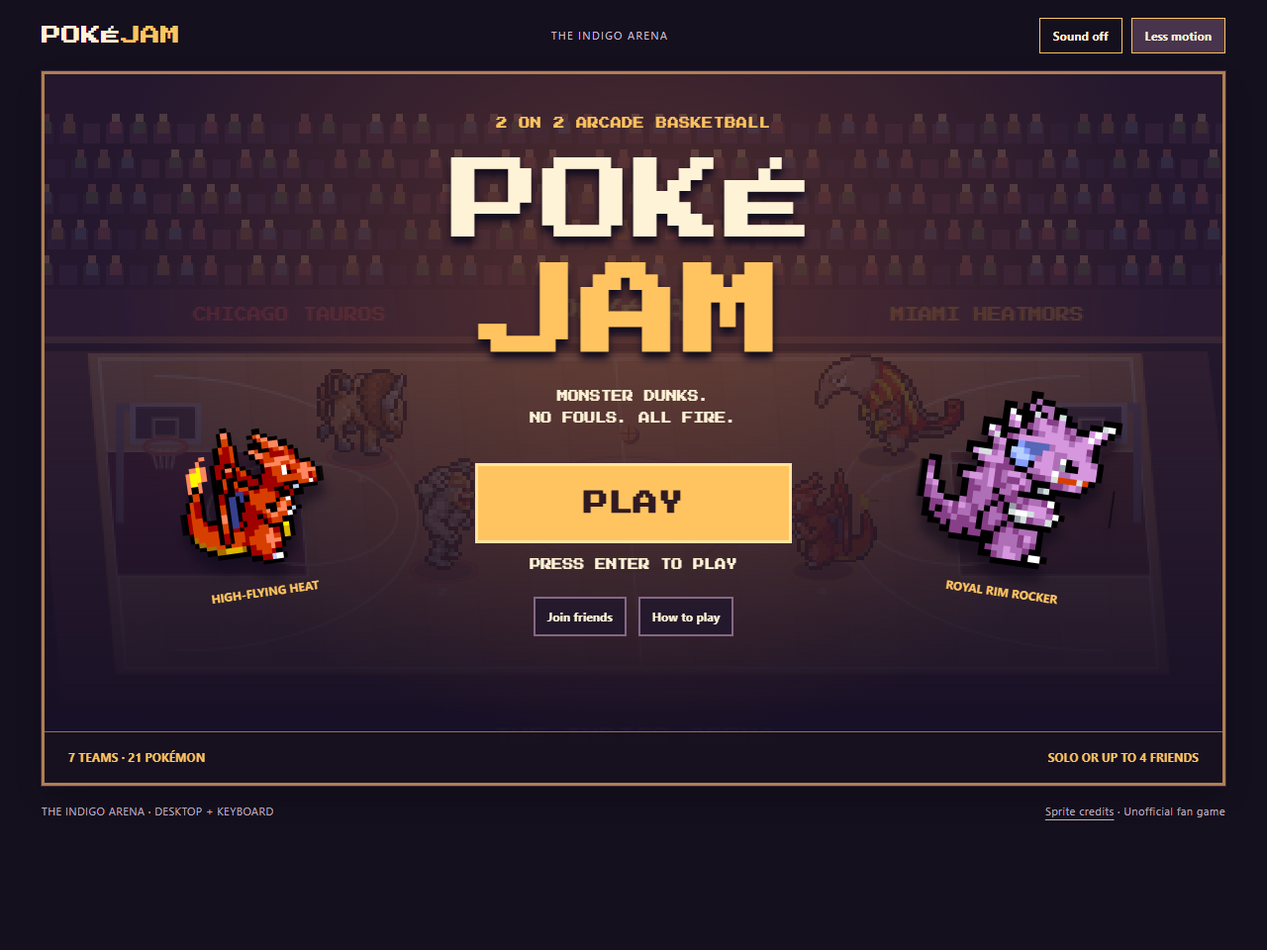
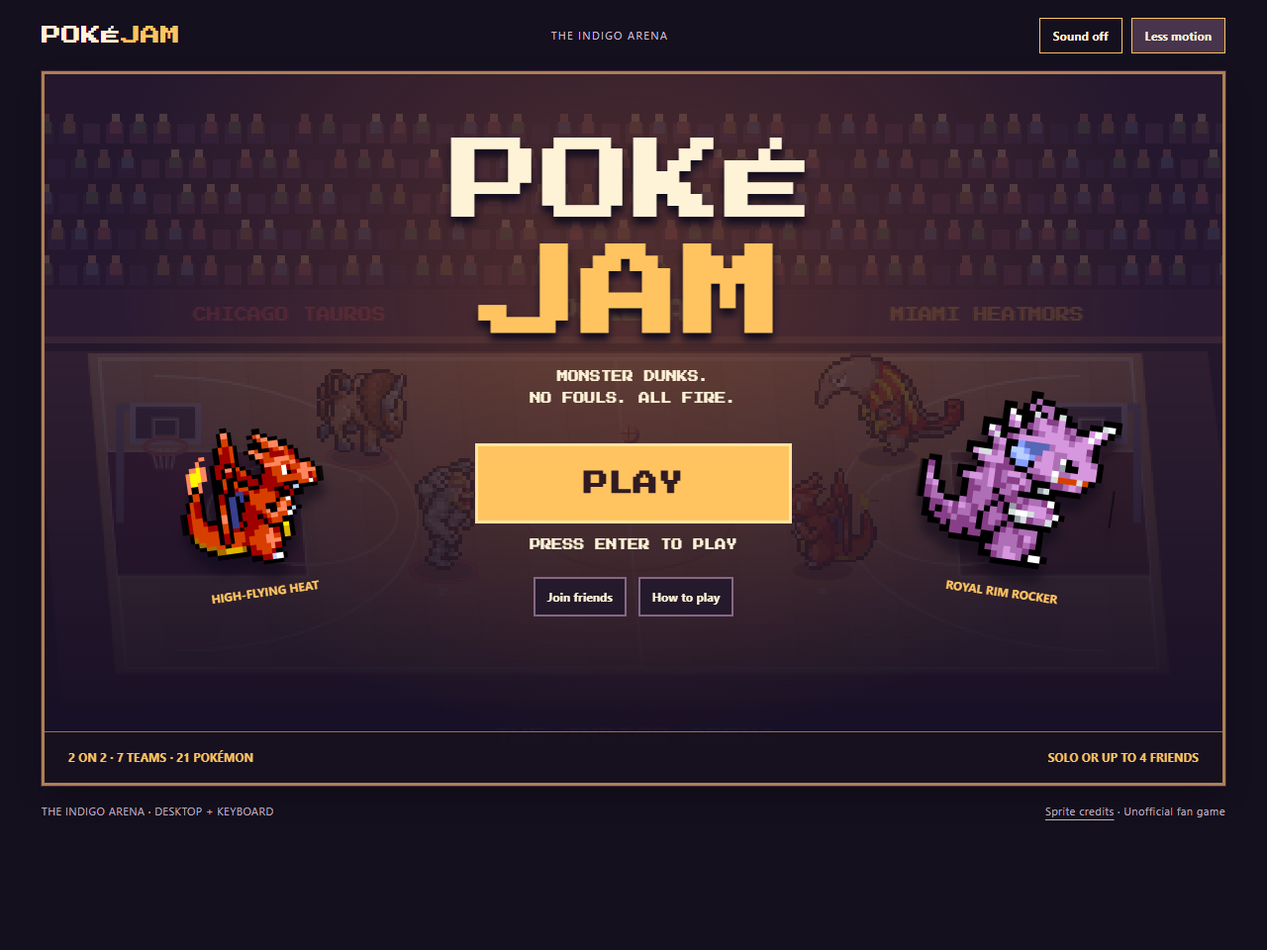
test: verify complete arcade matches and recovery

Changed region(s): [[0.3438, 0.125, 0.6562, 0.6562], [0.0625, 0.7812, 0.1875, 0.8125]]

diff --git a/public/style.css b/public/style.css
@@ -2,7 +2,7 @@
 :root{color-scheme:dark;--bg:#15101e;--panel:#291d36;--ink:#fff3d7;--muted:#cbbbcc;--line:#6c516d;--gold:#ffc460;--mint:#c9ef93;--wood:#95633d;--arcade:Arcade,monospace}
 *{box-sizing:border-box}body{margin:0;background:var(--bg);color:var(--ink);font:16px/1.5 system-ui,sans-serif}button,input{font:inherit}button,a,input{touch-action:manipulation}button{cursor:pointer;border:2px solid #866785;background:#33253d;color:var(--ink);padding:12px 18px;font-weight:750;border-radius:0;transition:background .15s,transform .15s}button:hover{background:#4b3654}button:active{transform:translateY(2px)}button:disabled{opacity:.55;cursor:default;transform:none}button[aria-pressed=true]{border-color:var(--gold)}button:focus-visible,a:focus-visible,input:focus-visible,canvas:focus-visible{outline:3px solid var(--mint);outline-offset:4px}h1:focus{outline:none}a{color:inherit;text-underline-offset:4px}input{min-width:0;padding:14px;background:#1e1628;border:2px solid #977b9b;color:var(--ink);caret-color:var(--gold)}input::placeholder{color:var(--muted)}::selection{background:var(--gold);color:#2b1729}*{scrollbar-color:#8b6b85 var(--bg)}[hidden]{display:none!important}canvas{image-rendering:pixelated}h1,h2,p{margin-top:0}h1,h2{text-wrap:balance}.primary{background:var(--gold);border-color:#ffe3a5;color:#301b23;font-family:var(--arcade);font-size:13px;line-height:1.8}.primary:hover{background:#ffdc8d}.quiet{font-size:12px;padding:8px 13px;background:transparent;border:1px solid var(--line)}.quiet:hover{background:#49344e}
 .marquee{max-width:1240px;margin:auto;padding:18px 22px;display:flex;align-items:center;justify-content:space-between;gap:16px}.brand{font:20px var(--arcade);text-decoration:none;color:var(--ink);white-space:nowrap}.brand span{color:var(--gold)}#connection-state{color:var(--muted);font-size:11px;letter-spacing:.12em}.settings{display:flex;gap:9px}.notice{max-width:1196px;margin:0 auto 12px;padding:12px 18px;background:#513344;border:1px solid var(--gold);color:var(--ink);font-size:14px}.cabinet{max-width:1196px;margin:0 auto;background:var(--panel);border:3px solid #ae8055;outline:1px solid #3f2737;box-shadow:0 12px 35px #08060d80;position:relative}.screen-page{min-height:650px}.screen-heading{text-align:center;padding:32px 20px 22px}.screen-heading h1,.simple-page h1{font:clamp(18px,2.4vw,29px)/1.6 var(--arcade);color:var(--gold);margin:0 0 10px}.screen-heading p{margin:0;color:var(--muted);font-size:14px}.selection-page{padding:0 28px 24px;background:linear-gradient(#2f203a,#24172e)}.selection-hint{min-height:22px;text-align:center;color:var(--muted);font-size:13px;margin:22px 0 0}footer{max-width:1240px;margin:auto;padding:18px 22px;display:flex;justify-content:space-between;gap:15px;color:var(--muted);font-size:11px;letter-spacing:.04em}.footer-dot{color:var(--gold)}
-.home-screen{min-height:716px;position:relative;isolation:isolate;overflow:hidden;text-align:center;background:#26182e}.home-screen #attract{position:absolute;inset:0;width:100%;height:100%;object-fit:cover;opacity:.18;z-index:-2}.home-rays{position:absolute;inset:0;z-index:-1;background:radial-gradient(ellipse at 50% 30%,#99522b60,transparent 65%),linear-gradient(transparent 40%,#160f24d9 90%)}.title-lockup{position:relative;padding-top:40px;z-index:1;pointer-events:none}.arcade-ribbon{font:11px/1.8 var(--arcade);color:var(--gold);letter-spacing:.05em}.title-lockup h1{font:clamp(54px,7.6vw,92px)/1.05 var(--arcade);margin:22px 0 20px;filter:drop-shadow(0 7px 4px #100c1e)}.title-lockup h1 span,.title-lockup h1 strong{display:block}.title-lockup h1 span{color:var(--ink)}.title-lockup h1 strong{color:var(--gold);font-size:1.08em;letter-spacing:.04em;margin-top:12px}.title-lockup p{font:11px/2 var(--arcade);color:var(--ink)}.hero-player{position:absolute;top:218px;width:32%;z-index:0;pointer-events:none}.hero-player canvas{width:100%;aspect-ratio:9/7;display:block;filter:drop-shadow(0 15px 5px #0b071780)}.hero-player span{font:11px/1.8 var(--arcade);color:var(--gold);display:block}.hero-left{left:1%;transform:rotate(-8deg)}.hero-right{right:1%;transform:rotate(8deg)}.hero-left canvas{animation:idle-rise 3.5s ease-in-out infinite}.hero-right canvas{animation:idle-rise 3.5s ease-in-out 1.75s infinite}.home-actions{position:relative;z-index:2;margin:34px auto 70px;width:320px;max-width:85%}.play-button{width:100%;font-size:25px;padding:15px 20px;border-width:3px}.play-button:disabled{font:12px/2 var(--arcade)}.enter-hint{font:11px/1.8 var(--arcade);display:block;margin:12px 0 22px;color:var(--ink)}.home-secondary{display:flex;justify-content:center;gap:12px}.home-secondary button{font-size:12px;background:#21172bd9;padding:9px 12px}.home-foot{position:absolute;bottom:0;left:0;right:0;padding:16px 24px;display:flex;justify-content:space-between;font:11px/1.8 var(--arcade);background:#16101ecc;border-top:1px solid #98704f;color:var(--gold)}
+.home-screen{min-height:716px;position:relative;isolation:isolate;overflow:hidden;text-align:center;background:#26182e}.home-screen #attract{position:absolute;inset:0;width:100%;height:100%;object-fit:cover;opacity:.18;z-index:-2}.home-rays{position:absolute;inset:0;z-index:-1;background:radial-gradient(ellipse at 50% 30%,#99522b60,transparent 65%),linear-gradient(transparent 40%,#160f24d9 90%)}.title-lockup{position:relative;padding-top:40px;z-index:1;pointer-events:none}.title-lockup h1{font:clamp(54px,7.6vw,92px)/1.05 var(--arcade);margin:22px 0 20px;filter:drop-shadow(0 7px 4px #100c1e)}.title-lockup h1 span,.title-lockup h1 strong{display:block}.title-lockup h1 span{color:var(--ink)}.title-lockup h1 strong{color:var(--gold);font-size:1.08em;letter-spacing:.04em;margin-top:12px}.title-lockup p{font:11px/2 var(--arcade);color:var(--ink)}.hero-player{position:absolute;top:218px;width:32%;z-index:0;pointer-events:none}.hero-player canvas{width:100%;aspect-ratio:9/7;display:block;filter:drop-shadow(0 15px 5px #0b071780)}.hero-player span{font:11px/1.8 var(--arcade);color:var(--gold);display:block}.hero-left{left:1%;transform:rotate(-8deg)}.hero-right{right:1%;transform:rotate(8deg)}.hero-left canvas{animation:idle-rise 3.5s ease-in-out infinite}.hero-right canvas{animation:idle-rise 3.5s ease-in-out 1.75s infinite}.home-actions{position:relative;z-index:2;margin:34px auto 70px;width:320px;max-width:85%}.play-button{width:100%;font-size:25px;padding:15px 20px;border-width:3px}.play-button:disabled{font:12px/2 var(--arcade)}.enter-hint{font:11px/1.8 var(--arcade);display:block;margin:12px 0 22px;color:var(--ink)}.home-secondary{display:flex;justify-content:center;gap:12px}.home-secondary button{font-size:12px;background:#21172bd9;padding:9px 12px}.home-foot{position:absolute;bottom:0;left:0;right:0;padding:16px 24px;display:flex;justify-content:space-between;font:11px/1.8 var(--arcade);background:#16101ecc;border-top:1px solid #98704f;color:var(--gold)}
 .side-tabs{display:grid;grid-template-columns:1fr 68px 1fr;align-items:center;gap:8px;max-width:700px;margin:auto}.side-tabs>span{text-align:center;font:18px var(--arcade);color:var(--gold)}.side-tabs button{font:11px/1.7 var(--arcade);padding:12px}.side-tabs button[aria-pressed=true]{background:#573449;box-shadow:inset 0 -3px #ffc460}.team-matchups{display:grid;grid-template-columns:1fr 1fr;gap:38px;max-width:880px;margin:20px auto 26px}.team-preview{display:grid;grid-template-columns:80px 1fr;align-items:center;text-align:left;gap:20px;padding:16px;background:var(--team-dark);border:1px solid var(--team-color)}.team-preview .team-emblem{width:80px;height:80px}.team-preview strong{font:14px/1.65 var(--arcade);color:var(--team-color)}.team-preview small{display:block;font-size:12px;color:var(--ink);margin-top:5px}.team-emblem{color:var(--team-color);display:block;flex-shrink:0}.team-grid{display:grid;grid-template-columns:repeat(7,minmax(0,1fr));gap:10px;padding:20px 16px;background:#70482f;border:3px solid #c49359;box-shadow:inset 0 4px 12px #36201970}.team-choice{padding:14px 3px 12px;background:#251b30;border:2px solid #a57b55;position:relative;display:flex;align-items:center;flex-direction:column;min-width:0}.team-choice:hover{background:var(--team-dark)}.team-choice .team-emblem{width:66px;height:66px;margin-bottom:14px}.team-choice strong{font:11px/1.8 var(--arcade);color:var(--team-color);overflow-wrap:anywhere}.team-choice small{font-size:11px;color:var(--ink);line-height:1.5;min-height:32px;margin-top:5px}.team-choice[aria-pressed=true]{outline:3px solid var(--gold);outline-offset:2px;background:var(--team-dark)}.team-choice .chosen-tag{font:11px/1.7 var(--arcade);background:var(--gold);color:#301b23;padding:3px 5px;position:absolute;top:-11px;left:50%;transform:translateX(-50%);white-space:nowrap}.team-choice:disabled{opacity:.65}
 .starter-slots{display:grid;grid-template-columns:repeat(4,minmax(0,1fr));gap:12px;margin:0 0 26px}.starter-slot{display:grid;grid-template-columns:72px 1fr;text-align:left;align-items:center;gap:10px;background:#21172b;padding:12px;border:2px solid #77566f;min-width:0;position:relative}.starter-slot:nth-child(3){margin-left:12px}.starter-slot canvas{width:72px;height:66px}.starter-slot strong{font:11px/1.9 var(--arcade);display:block;color:var(--team-color)}.starter-slot small{display:block;font-size:11px;color:var(--muted)}.starter-slot[aria-pressed=true]{border-color:var(--gold);background:var(--team-dark)}.starter-slot .seat-label{font:11px/1.5 var(--arcade);color:var(--ink);display:block;margin-bottom:4px}.draft-floor{display:grid;grid-template-columns:minmax(0,1.6fr) minmax(260px,1fr);gap:24px}.roster-choice h2{font:12px/1.8 var(--arcade);color:var(--gold);margin-bottom:14px}.player-grid{display:grid;grid-template-columns:repeat(3,minmax(0,1fr));gap:12px}.player-choice{padding:12px 5px;text-align:center;background:#3c2941;border:2px solid #816077;position:relative;min-width:0}.player-choice canvas{width:100%;height:146px;object-fit:contain}.player-choice strong{font:11px/1.8 var(--arcade);display:block;margin:8px 0;color:var(--team-color)}.player-choice small{display:block;font-size:11px;color:var(--ink);min-height:34px}.player-choice em{font-size:11px;font-style:normal;display:block;margin-top:12px;color:var(--mint)}.player-choice[aria-pressed=true]{border-color:var(--gold);background:var(--team-dark)}.player-choice:disabled{opacity:.68}.roster-choice>#claim-player{margin-top:18px}.ratings{background:#1c1427;border:2px solid #8b6650;padding:22px;min-width:0}.ratings h2{font:16px/1.8 var(--arcade);color:var(--team-color);margin:0 0 5px}.ratings .role{font-size:11px;letter-spacing:.04em;color:var(--muted);margin-bottom:20px}.rating-row{display:grid;grid-template-columns:70px 1fr 36px;align-items:center;gap:10px;margin:12px 0;font-size:12px}.rating-row strong{text-align:right;font-variant-numeric:tabular-nums}.rating-bars{display:grid;grid-template-columns:repeat(10,1fr);gap:3px}.rating-bars i{display:block;height:14px;background:#49384e}.rating-bars i.filled{background:var(--gold)}.signature-detail{padding-top:14px;margin-top:20px;border-top:1px solid #765871}.signature-detail small{font-size:11px;color:var(--muted);display:block;margin-bottom:8px}.signature-detail strong{font:11px/1.8 var(--arcade);color:var(--mint)}.signature-detail p{font-size:12px;color:var(--ink);line-height:1.6;margin:10px 0 0}
 .matchup-page{padding:0 30px 30px;text-align:center;background:radial-gradient(ellipse at 50% 90%,#6e3e4070,transparent 60%),#23172e}.matchup-board{display:grid;grid-template-columns:1fr 90px 1fr;align-items:center;gap:15px;margin:16px 0 25px}.versus{font:36px var(--arcade);color:var(--gold)}.matchup-team{background:var(--team-dark);border:2px solid var(--team-color);padding:22px 12px}.matchup-team .team-emblem{width:74px;height:74px;margin:0 auto 15px}.matchup-team h2{font:clamp(11px,1.5vw,17px)/1.8 var(--arcade);color:var(--team-color);margin:0}.matchup-team .city{color:var(--ink);font-size:12px;margin-bottom:8px}.matchup-players{display:grid;grid-template-columns:1fr 1fr;gap:10px}.matchup-player canvas{width:100%;height:170px;object-fit:contain}.matchup-player strong{display:block;font:11px/1.8 var(--arcade);color:var(--ink)}.matchup-player small{font-size:11px;display:block;margin-top:9px;color:var(--ink)}#matchup-actions .primary{min-width:260px;font-size:19px}#matchup-hint{font-size:13px;margin:15px 0 0;color:var(--muted)}.countdown{font:clamp(20px,4vw,44px)/1.5 var(--arcade);color:var(--gold);min-height:80px;padding:12px}
@@ -10,8 +10,8 @@
 .arena{min-height:0;background:#100c18}.scoreboard{display:grid;grid-template-columns:1fr 60px 150px 60px 1fr;gap:12px;align-items:center;background:#2e2039;padding:20px 28px;border-bottom:2px solid #9c7251}.team{display:flex;flex-direction:column;gap:8px;min-width:0}.team:last-child{text-align:right}.team span{font-size:11px;color:var(--ink)}.team strong{font:12px/1.7 var(--arcade);overflow-wrap:anywhere}.scoreboard>b{font:29px var(--arcade);text-align:center}.clock{text-align:center;display:flex;flex-direction:column;gap:8px}.clock strong{font:24px var(--arcade)}.clock span{font-size:11px;color:var(--mint)}.court-screen{position:relative}#court{width:100%;display:block;aspect-ratio:16/9;outline-offset:-4px}.court-foot{display:flex;justify-content:space-between;padding:12px 24px;background:#2e2039;font-size:11px;color:var(--ink)}.match-overlay{position:absolute;inset:0;background:#130b22c9;display:flex;flex-direction:column;align-items:center;justify-content:center;text-align:center;padding:20px;pointer-events:none}.match-overlay h2{font:clamp(20px,4vw,42px)/1.6 var(--arcade);color:var(--gold)}.match-overlay p{font-size:17px}.match-overlay button{pointer-events:auto}.focus-hint{position:absolute;bottom:15px;left:50%;transform:translateX(-50%);padding:8px 14px;background:#17101fe8;font-size:12px;border:1px solid var(--mint);pointer-events:none;white-space:nowrap}.player-bar{display:flex;gap:24px;align-items:center;padding:22px 24px;flex-wrap:wrap}.player-bar>strong{font:12px var(--arcade)}.player-bar>div{width:165px}.player-bar label{font-size:11px;display:block;margin-bottom:5px}.player-bar meter{width:100%;height:13px;accent-color:var(--mint)}#power-hint{font-size:12px;color:var(--muted)}.game-controls{font-size:11px;color:var(--muted);text-align:center;margin:0;padding:0 18px 18px}
 @keyframes idle-rise{0%,100%{transform:translateY(0)}50%{transform:translateY(-9px)}}body.reduced *{animation:none!important;transition:none!important}@media(prefers-reduced-motion:reduce){*{animation:none!important;transition:none!important}}
 @media(max-width:1000px){.cabinet{margin:0 14px}.team-grid{gap:7px;padding:18px 10px}.team-choice strong{font-size:11px}.team-choice .team-emblem{width:52px;height:52px}.starter-slot{grid-template-columns:1fr;text-align:center;gap:4px}.starter-slot canvas{margin:auto}.draft-floor{gap:16px}.player-choice strong{font-size:11px}.ratings{padding:17px}.hero-player{top:220px}.hero-player span{font-size:11px}.scoreboard .team strong{font-size:11px}}
-@media(max-width:760px){.marquee{padding:15px 14px;flex-wrap:wrap;gap:12px}.brand{font-size:16px}#connection-state{display:none}.settings{gap:6px}.quiet{font-size:11px;padding:7px 9px}.cabinet{margin:0 10px;border-width:2px}.notice{margin:0 10px 10px}.screen-page{min-height:580px}.screen-heading{padding:26px 6px 20px}.screen-heading h1{font-size:19px}.screen-heading p{font-size:12px}.selection-page{padding:0 12px 20px}.home-screen{min-height:700px}.title-lockup{padding-top:32px}.title-lockup h1{font-size:62px;margin:20px 0 15px}.title-lockup p{font-size:11px}.arcade-ribbon{font-size:11px}.hero-player{top:272px;width:45%}.hero-left{left:-2%}.hero-right{right:-2%}.hero-player span{display:none}.home-actions{margin-top:155px;width:275px}.play-button{font-size:20px;padding:12px}.home-foot{font:11px/1.8 var(--arcade);padding:13px 10px;gap:12px}.side-tabs{grid-template-columns:1fr 35px 1fr}.side-tabs button{font-size:11px;padding:10px 6px}.side-tabs>span{font-size:12px}.team-matchups{gap:12px;margin:16px auto 23px}.team-preview{grid-template-columns:1fr;text-align:center;gap:8px;padding:12px 6px}.team-preview .team-emblem{width:54px;height:54px;margin:auto}.team-preview strong{font-size:11px}.team-preview small{font-size:11px}.team-grid{grid-template-columns:repeat(4,minmax(0,1fr));gap:12px 8px;padding:18px 10px}.team-choice{padding:10px 3px}.team-choice .team-emblem{width:44px;height:44px;margin-bottom:8px}.team-choice strong{font-size:11px}.team-choice small{font-size:11px;min-height:27px}.team-choice .chosen-tag{font-size:11px}.starter-slots{grid-template-columns:repeat(2,minmax(0,1fr));gap:9px;margin-bottom:20px}.starter-slot{grid-template-columns:55px 1fr;text-align:left;padding:9px;gap:6px}.starter-slot canvas{width:55px;height:55px}.starter-slot:nth-child(3){margin-left:0}.starter-slot strong{font-size:11px}.draft-floor{grid-template-columns:1fr;gap:22px}.roster-choice h2{font-size:11px}.player-grid{gap:8px}.player-choice canvas{height:105px}.player-choice strong{font-size:11px}.player-choice small{font-size:11px}.player-choice em{font-size:11px}.ratings h2{font-size:15px}.ratings{padding:20px}.selection-nav{padding:14px 12px;gap:9px}.selection-nav>span{display:none}.selection-nav>button{font-size:11px;padding:10px}.room-tools{gap:10px;padding:12px;font-size:11px}.matchup-page{padding:0 10px 25px}.matchup-board{grid-template-columns:1fr 22px 1fr;gap:5px}.versus{font-size:13px}.matchup-team{padding:14px 5px}.matchup-team .team-emblem{width:52px;height:52px}.matchup-team h2{font-size:11px;overflow-wrap:anywhere}.matchup-team .city{font-size:11px}.matchup-players{grid-template-columns:1fr;gap:12px;margin-top:10px}.matchup-player canvas{height:115px}.matchup-player strong{font-size:11px}.matchup-player small{font-size:11px}.simple-page{padding:35px 20px}.simple-page h1{font-size:19px}.controls{grid-template-columns:1fr}.scoreboard{grid-template-columns:1fr 30px 77px 30px 1fr;gap:5px;padding:14px 9px}.scoreboard .team strong{font:800 11px/1.4 system-ui,sans-serif}.team span{font-size:11px}.scoreboard>b{font-size:16px}.clock strong{font-size:16px}.clock span{font-size:11px}.court-foot{font-size:11px;padding:10px}.player-bar{padding:18px 12px;gap:16px}.player-bar>div{width:130px}.game-controls{font-size:11px}.match-overlay h2{font-size:20px;margin-bottom:9px}.match-overlay p{font-size:12px}.match-overlay .primary{font-size:11px}footer{font-size:11px;padding:15px 12px;flex-wrap:wrap;gap:6px}}
+@media(max-width:760px){.marquee{padding:15px 14px;flex-wrap:wrap;gap:12px}.brand{font-size:16px}#connection-state{display:none}.settings{gap:6px}.quiet{font-size:11px;padding:7px 9px}.cabinet{margin:0 10px;border-width:2px}.notice{margin:0 10px 10px}.screen-page{min-height:580px}.screen-heading{padding:26px 6px 20px}.screen-heading h1{font-size:19px}.screen-heading p{font-size:12px}.selection-page{padding:0 12px 20px}.home-screen{min-height:700px}.title-lockup{padding-top:32px}.title-lockup h1{font-size:62px;margin:20px 0 15px}.title-lockup p{font-size:11px}.hero-player{top:272px;width:45%}.hero-left{left:-2%}.hero-right{right:-2%}.hero-player span{display:none}.home-actions{margin-top:155px;width:275px}.play-button{font-size:20px;padding:12px}.home-foot{font:11px/1.8 var(--arcade);padding:13px 10px;gap:12px}.side-tabs{grid-template-columns:1fr 35px 1fr}.side-tabs button{font-size:11px;padding:10px 6px}.side-tabs>span{font-size:12px}.team-matchups{gap:12px;margin:16px auto 23px}.team-preview{grid-template-columns:1fr;text-align:center;gap:8px;padding:12px 6px}.team-preview .team-emblem{width:54px;height:54px;margin:auto}.team-preview strong{font-size:11px}.team-preview small{font-size:11px}.team-grid{grid-template-columns:repeat(4,minmax(0,1fr));gap:12px 8px;padding:18px 10px}.team-choice{padding:10px 3px}.team-choice .team-emblem{width:44px;height:44px;margin-bottom:8px}.team-choice strong{font-size:11px}.team-choice small{font-size:11px;min-height:27px}.team-choice .chosen-tag{font-size:11px}.starter-slots{grid-template-columns:repeat(2,minmax(0,1fr));gap:9px;margin-bottom:20px}.starter-slot{grid-template-columns:55px 1fr;text-align:left;padding:9px;gap:6px}.starter-slot canvas{width:55px;height:55px}.starter-slot:nth-child(3){margin-left:0}.starter-slot strong{font-size:11px}.draft-floor{grid-template-columns:1fr;gap:22px}.roster-choice h2{font-size:11px}.player-grid{gap:8px}.player-choice canvas{height:105px}.player-choice strong{font-size:11px}.player-choice small{font-size:11px}.player-choice em{font-size:11px}.ratings h2{font-size:15px}.ratings{padding:20px}.selection-nav{padding:14px 12px;gap:9px}.selection-nav>span{display:none}.selection-nav>button{font-size:11px;padding:10px}.room-tools{gap:10px;padding:12px;font-size:11px}.matchup-page{padding:0 10px 25px}.matchup-board{grid-template-columns:1fr 22px 1fr;gap:5px}.versus{font-size:13px}.matchup-team{padding:14px 5px}.matchup-team .team-emblem{width:52px;height:52px}.matchup-team h2{font-size:11px;overflow-wrap:anywhere}.matchup-team .city{font-size:11px}.matchup-players{grid-template-columns:1fr;gap:12px;margin-top:10px}.matchup-player canvas{height:115px}.matchup-player strong{font-size:11px}.matchup-player small{font-size:11px}.simple-page{padding:35px 20px}.simple-page h1{font-size:19px}.controls{grid-template-columns:1fr}.scoreboard{grid-template-columns:1fr 30px 77px 30px 1fr;gap:5px;padding:14px 9px}.scoreboard .team strong{font:800 11px/1.4 system-ui,sans-serif}.team span{font-size:11px}.scoreboard>b{font-size:16px}.clock strong{font-size:16px}.clock span{font-size:11px}.court-foot{font-size:11px;padding:10px}.player-bar{padding:18px 12px;gap:16px}.player-bar>div{width:130px}.game-controls{font-size:11px}.match-overlay h2{font-size:20px;margin-bottom:9px}.match-overlay p{font-size:12px}.match-overlay .primary{font-size:11px}footer{font-size:11px;padding:15px 12px;flex-wrap:wrap;gap:6px}}
 
 /* Compact labels use readable type as the cabinet narrows. */
 .home-foot{font:700 12px/1.6 system-ui,sans-serif}.hero-player span{font:700 12px/1.8 system-ui,sans-serif}.team-choice .chosen-tag{font:800 11px/1.6 system-ui,sans-serif}.team-choice strong{font:800 13px/1.8 system-ui,sans-serif}.starter-slot .seat-label{font:800 11px/1.5 system-ui,sans-serif}
-@media(max-width:760px){.team-grid{grid-template-columns:repeat(3,minmax(0,1fr))}.team-choice strong{font-size:12px}.side-tabs button{font:800 12px/1.7 system-ui,sans-serif}.team-preview strong{font:800 13px/1.7 system-ui,sans-serif}.starter-slot strong,.player-choice strong{font:800 13px/1.8 system-ui,sans-serif}.matchup-team h2,.matchup-player strong{font:800 13px/1.8 system-ui,sans-serif}.title-lockup p,.arcade-ribbon{font:800 13px/1.8 system-ui,sans-serif}.home-foot span{max-width:48%}.home-foot{padding:10px}.home-screen{min-height:720px}.home-actions{margin-top:155px}}
+@media(max-width:760px){.team-grid{grid-template-columns:repeat(3,minmax(0,1fr))}.team-choice strong{font-size:12px}.side-tabs button{font:800 12px/1.7 system-ui,sans-serif}.team-preview strong{font:800 13px/1.7 system-ui,sans-serif}.starter-slot strong,.player-choice strong{font:800 13px/1.8 system-ui,sans-serif}.matchup-team h2,.matchup-player strong{font:800 13px/1.8 system-ui,sans-serif}.title-lockup p{font:800 13px/1.8 system-ui,sans-serif}.home-foot span{max-width:48%}.home-foot{padding:10px}.home-screen{min-height:720px}.home-actions{margin-top:155px}}

diff --git a/public/index.html b/public/index.html
@@ -18,9 +18,9 @@
    <div class="home-rays" aria-hidden="true"></div>
    <div class="hero-player hero-left"><canvas width="180" height="140" data-portrait="charizard" aria-hidden="true"></canvas><span>HIGH-FLYING HEAT</span></div>
    <div class="hero-player hero-right"><canvas width="180" height="140" data-portrait="nidoking" aria-hidden="true"></canvas><span>ROYAL RIM ROCKER</span></div>
-   <div class="title-lockup"><div class="arcade-ribbon">2 ON 2 ARCADE BASKETBALL</div><h1><span>POKÉ</span><strong>JAM</strong></h1><p>MONSTER DUNKS.<br>NO FOULS. ALL FIRE.</p></div>
+   <div class="title-lockup"><h1><span>POKÉ</span><strong>JAM</strong></h1><p>MONSTER DUNKS.<br>NO FOULS. ALL FIRE.</p></div>
    <div class="home-actions"><button id="create" class="primary play-button" disabled>LOADING ROSTER…</button><span class="enter-hint">PRESS ENTER TO PLAY</span><div class="home-secondary"><button id="join-open">Join friends</button><button id="help-open">How to play</button></div></div>
-   <div class="home-foot"><span>7 TEAMS · 21 POKÉMON</span><span>SOLO OR UP TO 4 FRIENDS</span></div>
+   <div class="home-foot"><span>2 ON 2 · 7 TEAMS · 21 POKÉMON</span><span>SOLO OR UP TO 4 FRIENDS</span></div>
   </section>
   <section id="teams-screen" class="screen-page selection-page" data-screen="teams" hidden>
    <div class="screen-heading"><h1 tabindex="-1">CHOOSE YOUR TEAM</h1><p>Seven cities. One court. Pick your side.</p></div>

diff --git a/README.md b/README.md
@@ -1,6 +1,6 @@
 # PokéJam
 
-A first playable Pokémon basketball fan game: Chicago Tauros versus Miami Heatmors. Four players, two baskets, three-minute matches, timed shots, huge dunks, steals, blocks, turbo, and signature moves earned through play. Original game code; no NBA Jam ROM or source code required.
+A Pokémon basketball fan game with seven NBA-inspired franchises and 21 selectable Pokémon. Four players, two baskets, three-minute matches, timed shots, huge dunks, steals, blocks, turbo, and signature moves earned through play. Original game code; no NBA Jam ROM or source code required.
 
 **Current focus: local development and gameplay features. Hosting is deferred.** For a fresh coding session, start with [AGENTS.md](AGENTS.md), which links the design, architecture, verification evidence, and known issues. The original implementation plan is completed history.
 
@@ -14,7 +14,21 @@ npm test
 npm start
 ```
 
-Open **http://127.0.0.1:3000**. Create a court, choose your player, then start. Empty slots use AI. Copy the invite to let friends choose any free slot; up to four humans can play. Two friends can share a team against AI. Late joins take control at the next stoppage.
+Open **http://127.0.0.1:3000**. Press **Play**, choose two different franchises, pick two starters from each three-Pokémon roster, review the matchup, then **Tip off**. Empty slots use AI. Copy the invite to let friends choose any free slot; up to four humans can play. Two friends can share a team against AI. Late joins take control at the next stoppage.
+
+Each side's oldest connected human is its captain; the host configures all-AI sides. Captains choose teams and AI starters, and each human chooses their own Pokémon. A second human or reservation locks that side's franchise. Selecting your AI teammate's Pokémon swaps the two species. To control another free slot, select it and use **Play as P…**. Lineups lock at countdown and persist for rematches. Back preserves choices; the home logo leaves the room. Enter starts from Home, arrows browse focused grids, Escape goes back, and Tab reaches every enabled control.
+
+| Franchise | Roster (choose two) |
+| --- | --- |
+| Chicago Tauros | Tauros, Machamp, Hitmontop |
+| Miami Heatmors | Heatmor, Charizard, Infernape |
+| Boston Celebis | Celebi, Gallade, Breloom |
+| Golden State Wartortles | Wartortle, Blastoise, Drednaw |
+| Toronto Tyrantrums | Tyrantrum, Sceptile, Aerodactyl |
+| Minnesota Lycanrocs | Midday Lycanroc, Mightyena, Lucario |
+| Sacramento Kingdras | Kingdra, Nidoking, Slowking |
+
+Ratings are real tuning, on a 1–10 scale: speed sets movement speed, shooting widens the timing window, dunk sets reach, and steal reduces recovery time. These are initial profiles, not a claim of competitive balance. Signature descriptions state the effect and activation requirement.
 
 Localhost links work on this computer only. For another computer on your LAN, start with `HOST=0.0.0.0` and use your computer's LAN address. Internet play needs the hosted service below.
 
@@ -40,7 +54,7 @@ Click or Tab to the court to focus it. Leaving gameplay focus stops held control
 | L | Signature at full meter |
 | Space | Switch to your AI teammate; human/reserved slots are protected |
 
-Tauros: Raging Bull. Machamp: Bullet Pass. Heatmor: Heat Check. Charizard: Sky Slam. Scores, assists, steals, blocks, and defensive rebounds earn meter. Tied games enter next-basket-wins overtime. Host can return to the lobby for a rematch.
+Signatures reuse four basketball effects: dash, fast pass, shot boost, and boosted dunk. Each species has its own named move. Scores, assists, steals, blocks, and defensive rebounds earn meter. Tied games enter next-basket-wins overtime. Host can return to player selection for a rematch.
 
 Sound starts muted. The header has sound and reduced-motion controls. Desktop keyboard required; touch controls and gamepads are outside this build.
 
@@ -71,10 +85,12 @@ npm run test:browser
 npm run test:latency
 ```
 
-The browser suite uses locally installed Microsoft Edge through Playwright, takes screenshots into `docs/verification`, and runs a real-time solo match/rematch plus room/control/fallback checks. The latency suite uses four independent WebSocket clients with 75 ms delay each way and compares their authoritative state at every common tick. These longer suites can take several minutes. Unit and protocol checks use Node's built-in test runner.
+The browser suite uses locally installed Microsoft Edge through Playwright, takes screenshots into `docs/verification/arcade-selection`, and runs a real-time solo match/rematch plus room/control/fallback checks. The latency suite uses four independent WebSocket clients with 75 ms delay each way and compares franchises, species, abilities, score, possession, and phase at every common tick. These longer suites can take several minutes. Unit and protocol checks use Node's built-in test runner. `node test/selection.mjs` checks the complete short menu journey and desktop/small layouts; `node test/exit.mjs` and `node test/recovery.mjs` check recovery.
 
-See [verification record](docs/verification/first-playable.md) for executed checks and remaining limits. Core files: `public/game/` rules and AI; `server/` authority and room protocol; `public/app.js` controls/session/UI; `public/render.js` canvas/audio.
+See [arcade-selection verification](docs/verification/arcade-selection/verification.md) for current evidence; [first playable](docs/verification/first-playable.md) is historical. Core files: `public/game/` rules, catalog and AI; `server/` authority and room protocol; `public/app.js` controls/session lifecycle; `public/menu.js` screen navigation and selection; `public/render.js` canvas/audio; `public/connection.js` prediction/reconnect.
 
 ## Art
 
 Existing Pokémon sprite pixels come from a pinned SpriteCollab revision. Basketball animation sequencing, timing, pivots, ball anchors, court art, UI, and effects are added here. Source terms differ per sheet; [credits and provenance](public/assets/CREDITS.md) accompany the assets. This is an unofficial fan game.
+
+Runtime uses committed assets and needs no Python. To regenerate sprite metadata/download source sheets, install Python 3 and Pillow, then run `python tools/import_sprites.py`. Use `python tools/import_sprites.py --check` for local validation without downloads. The importer was verified with Python 3.14.3 / Pillow 12.2.0. `node test/animations.mjs` captures franchise action atlases for visual inspection.

diff --git a/AGENTS.md b/AGENTS.md
@@ -4,7 +4,7 @@
 
 - User is focusing on **local development and new gameplay features**. Hosting is deferred; keep the existing local HTTP/WebSocket server and avoid deployment work unless requested.
 - This is an NBA Jam-inspired browser game starring Pokémon: actual 2-on-2, humans or AI in all four slots, private rooms, keyboard controls, signature moves earned through basketball.
-- Initial teams: Chicago Tauros (Tauros/Machamp) and Miami Heatmors (Heatmor/Charizard). Preserve the approved arcade/pixel-art direction unless the new request changes it.
+- Seven teams, three Pokémon per roster, two starters: Chicago Tauros, Miami Heatmors, Boston Celebis, Golden State Wartortles, Toronto Tyrantrums, Minnesota Lycanrocs, Sacramento Kingdras. Default Chicago/Miami remains. Preserve the approved arcade home → teams → players/ratings → matchup → game flow and pixel-art direction.
 - User prefers very concise communication (Caveman full) and the simplest correct implementation (Ponytail full). Avoid unnecessary dependencies and repeated confirmations for already-authorized work.
 
 ## Pick up a new task
@@ -16,6 +16,8 @@
   - `DESIGN.md`: visual direction.
   - `docs/superpowers/specs/2026-10-12-pokejam-design.md`: detailed baseline rules and protocol behavior.
   - `docs/verification/first-playable.md`: actual evidence, review fixes, limitations, and known minor issues.
+  - `docs/superpowers/specs/2026-10-12-arcade-selection-design.md`: approved selection and roster behavior.
+  - `docs/verification/arcade-selection/verification.md`: current roster/menu acceptance and remaining limits; first-playable evidence is historical.
   - `public/assets/CREDITS.md`: sprite provenance and terms.
 - `docs/superpowers/plans/2026-10-12-pokejam.md` is the **completed initial-build plan**, retained as history. Its original unchecked boxes and planning-stage handoff are not an active task list. New features get their own scoped work.
 - Keep behavior-changing decisions and material limitations in the relevant repo docs so future chats do not depend on this conversation.
@@ -24,15 +26,16 @@
 
 - Node.js 24+, JavaScript ES modules, native Canvas/WebSocket/Web Audio. `ws` is the only production dependency; Playwright is development-only.
 - `npm ci` if dependencies are missing; `npm start` serves `http://127.0.0.1:3000`. No frontend build step.
-- `npm test` runs fast asset, simulation, room, and real-server checks. Baseline on 2026-10-12: 28 passing; rerun appropriate checks for changes instead of treating that number as current proof.
+- `npm test` runs fast asset, simulation, room, and real-server checks. Arcade-selection baseline on 2026-10-12: 36 passing; rerun appropriate checks for changes instead of treating that number as current proof.
 - `npm run test:browser` runs the full headless Edge journey and match/rematch; `npm run test:latency` runs four delayed clients through a full match. Both take several minutes. Browser tests can overwrite tracked verification screenshots; inspect those diffs.
-- Focused scripts: `node test/recovery.mjs`, `node test/exit.mjs`, `node test/animations.mjs`. Headless Playwright testing was explicitly approved. Follow current tool permissions.
+- Focused scripts: `node test/selection.mjs`, `node test/recovery.mjs`, `node test/exit.mjs`, `node test/animations.mjs`. New captures go under `docs/verification/arcade-selection/`. Headless Playwright testing was explicitly approved. Follow current tool permissions.
 
 ## Boundaries worth preserving
 
 - `public/game/`: shared simulation, roster, tuning, and bots. Bots emit normal inputs; only decision memory may be mutated by the decision function.
 - `server/`: one authoritative process owns matches at 60 Hz and sends 20 Hz snapshots. All room state is in memory. Browser inputs cannot choose scores, possession, or positions.
-- `public/connection.js`: movement prediction/reconciliation, interpolation, reconnect. `public/app.js`: controls and UI lifecycle. `public/render.js`: Canvas and audio.
+- `public/connection.js`: movement prediction/reconciliation, interpolation, reconnect. `public/app.js`: controls/session lifecycle. `public/menu.js`: screen navigation, keyboard menus, franchise/starter selection. `public/render.js`: Canvas and audio.
+- Species key and ability belong to profiles; slot id and team side remain 0–3 and 0–1. Resolve identities through match.teamKeys, never slot-based signatures. Preserve server captain/reservation protections and selection locks; rematch retains only selection.
 - Preserve short input edges, control epochs, token rotation, neutral-on-blur behavior, once-only scoring, and blockable buzzer shots.
 - Sprite sheet row 2 faces right; row 6 faces left. Preserve frame metadata and front-facing ball anchors. Keep source credits when changing assets.
-- Known limits: internet deployment, Docker execution, other browser engines, audible output, and subjective gameplay feel are unverified. Full-room copy needs polish; the original font license retains trailing whitespace. See the verification record before claiming these resolved.
+- Known limits: internet deployment, Docker execution, other browser engines, audible output, and subjective gameplay feel/balance are unverified. Source Pokémon poses are reused for basketball; the original font license retains trailing whitespace. Full rooms now have explicit recovery copy and Home. See the current verification record before claiming other limits resolved.

diff --git a/docs/verification/arcade-selection/verification.md b/docs/verification/arcade-selection/verification.md
@@ -1,0 +1,44 @@
+# Arcade selection verification
+
+Session: 2026-10-12–13. Branch: `feat/arcade-selection`, based on `e0fb115`. Local Node server; Microsoft Edge 155.0.4283.45 through headless Playwright. No hosting work.
+
+## Accepted behavior
+
+- Home → Play → teams → players/ratings → matchup/countdown → match/results → rematch. Seven franchises, 21 species, two distinct starters from each three-player roster.
+- Captain and human ownership rules enforced by server, including stale edits, reservations, reconnect handoff and AI swaps. Franchises cannot duplicate. Selection locks at match creation and survives rematches.
+- Displayed ratings drive actual movement, shooting timing window, dunk reach and steal recovery. Signatures follow species rather than slot. Original four profiles retain prior speed/window/dunk/recovery values.
+- Selected franchises drive scoreboards, court signage/colors, player rings, portraits and winner text. Source sprites for all 21 species are present. No new runtime or frontend dependencies.
+
+## Executed checks
+
+| Command | Evidence |
+| --- | --- |
+| `npm test` | 36/36 pass: catalog/invalid selections, all 42 ordered team pairs, complete seeded matches covering all species, abilities/prediction, room permissions/races/reconnect, real HTTP/WebSocket, existing basketball rules |
+| `python tools/import_sprites.py --check` | All source sheets and metadata validated locally |
+| `node test/animations.mjs` | Seven franchise action atlases and release samples generated and visually inspected; both directions, nine poses, ball anchors |
+| `node test/selection.mjs` | Real UI/socket path, catalog-matching ratings/signatures, Back, Enter/arrows/Escape/Tab, focus retention, invite text entry, zero menu input messages, two-client ownership, full-room Home, create-error recovery, all 21 portraits, zero browser exceptions |
+| `node test/exit.mjs` | Reload recovers; Home exits pregame/live match; new room stays new |
+| `node test/recovery.mjs` | Two browsers at 150 ms RTT, late join at stoppage, movement acknowledgement, duplicate token replacement, real server restart recovery; zero browser exceptions |
+
+| `npm run test:browser` | Complete Sacramento/Toronto solo match (0–5), four-human room, protected teammate, full-room recovery, missing-art fallback, controls/blur/switch/reconnect, results/rematch. Rematch preserved teams/species and reset score, clocks, meter and actions; zero browser exceptions |
+| `npm run test:latency` | Complete Boston/Golden State game (50–44), four independent clients with 75 ms delay each direction. All 4,572 common ticks agreed on franchises, species, abilities, score, possession and phase; zero protocol errors |
+
+## Visual evidence
+
+Home, teams, players and matchup have paired `*-desktop.png` (1280×960 viewport) and `*-small.png` (390×844 viewport) full-page captures. `court-selected.png` shows selected Sacramento/Toronto identities. `delayed-coop.png` shows actual delayed co-op. Franchise `atlas-*.png` files and release samples document sprites.
+
+Two author inspection batches checked every menu capture. Functional labels were enlarged to at least 11px; compact labels use system type while display headlines retain the pixel face. Small team board uses three columns; player ratings move below the roster. No horizontal overflow at 390px. Gameplay still needs a keyboard.
+
+Impeccable's detector ran once. Typography findings were corrected; home clipping deliberately contains the decorative court backdrop and portraits. A fresh reviewer used the shipped degraded-role instructions because typed Impeccable agents are not exposed by this harness. Review covered the eight captures, code-led direction contract and craft floor; no separate QUALITY BAR card was supplied. Final verdict and code review are recorded after completion.
+
+## Assets and limits
+
+Pinned SpriteCollab source: `6e4cbc000566b1628daff88c317e15c907acf98f`. Original pixels and per-sheet author/license records retained in `public/assets/CREDITS.md` and species source files. Importer uses Python 3/Pillow only for asset development; runtime uses committed files.
+
+Source Pokémon poses are sequenced as basketball actions, not newly drawn sport animations. The 21 profiles are initial tuning, not verified competitive balance. Audible output, other browser engines, subjective game feel, internet play and Docker execution remain unverified. Full-room recovery copy is now explicit; historical font-license trailing whitespace remains untouched. Historical first-playable screenshots/record were preserved.
+
+## Implementation decisions
+
+- New roster, ability, prediction and seeded-match checks share `roster.test.js`; tradeoff: this file also contains integration coverage.
+- Added per-frame alpha bounds to sprite metadata so large/floating portraits fit; tradeoff: regenerated manifest, with source pixels unchanged.
+- Extended menu updates with `ready`/`busy` loading flags; tradeoff: a small interface extension, with the app retaining session ownership.

diff --git a/PRODUCT.md b/PRODUCT.md
@@ -9,7 +9,11 @@ User approved native Canvas, JavaScript, and one Node WebSocket server. Native e
 ## Users and purpose
 The user and friends play online Pokémon basketball. Four character slots, two per team, can be controlled by humans or AI. Success is a complete readable match from separate computers, with working reconnects.
 ## Confirmed commitments
-NBA Jam-inspired angled pixel-art court, oversized Pokémon, exaggerated dunks, NBA-spoof team identities. Chicago Tauros and Miami Heatmors are the initial teams. Basketball builds signature-move meter. Desktop keyboard controls, private invite links, no accounts.
+NBA Jam-inspired arcade home → teams → players and ratings → matchup/countdown → angled pixel-art court → results/rematch. Oversized Pokémon, exaggerated dunks, original NBA-spoof emblems, private invites, no accounts. Seven franchises with three Pokémon each; two distinct starters per side: Chicago Tauros, Miami Heatmors, Boston Celebis, Golden State Wartortles, Toronto Tyrantrums, Minnesota Lycanrocs, Sacramento Kingdras. The full roster is in README.md and public/game/data.js.
+
+Speed, shooting, dunk, and steal ratings map to actual movement, shot timing, dunk reach, and steal recovery. All 21 species have credited sprites and named signatures using the existing dash/pass/shot/dunk effects. Basketball builds signature meter; the original four players retain their initial tuning. Profile balance remains a playtesting question.
+
+Selection is authoritative: each human edits their own Pokémon; the side captain edits AI starters and chooses the franchise only while no teammate/reservation occupies the side. The host controls all-AI sides. Different franchises, distinct starters, no client-supplied stats. Selection freezes at countdown and survives rematches; match state resets.
 ## Evidence and limits
 Approved design and plan live in docs/superpowers. Imported sprites and source records live in public/assets. Hosting destination and separate-network verification remain open. Do not advertise a live public service before deployment.
 ## Accessibility
